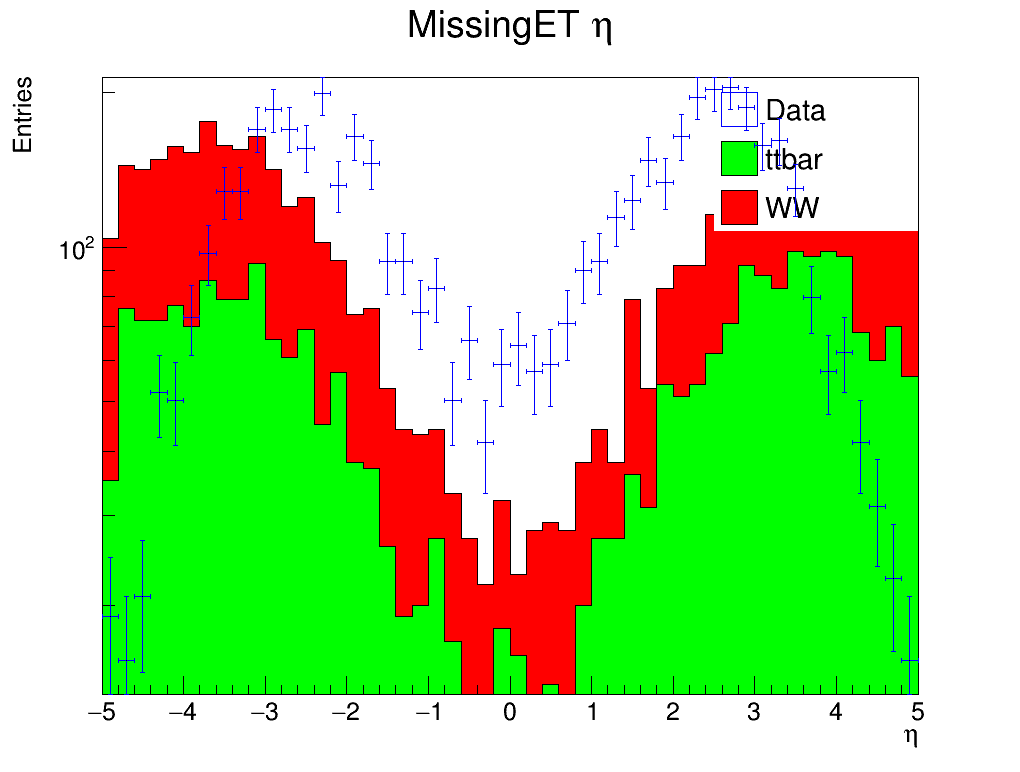
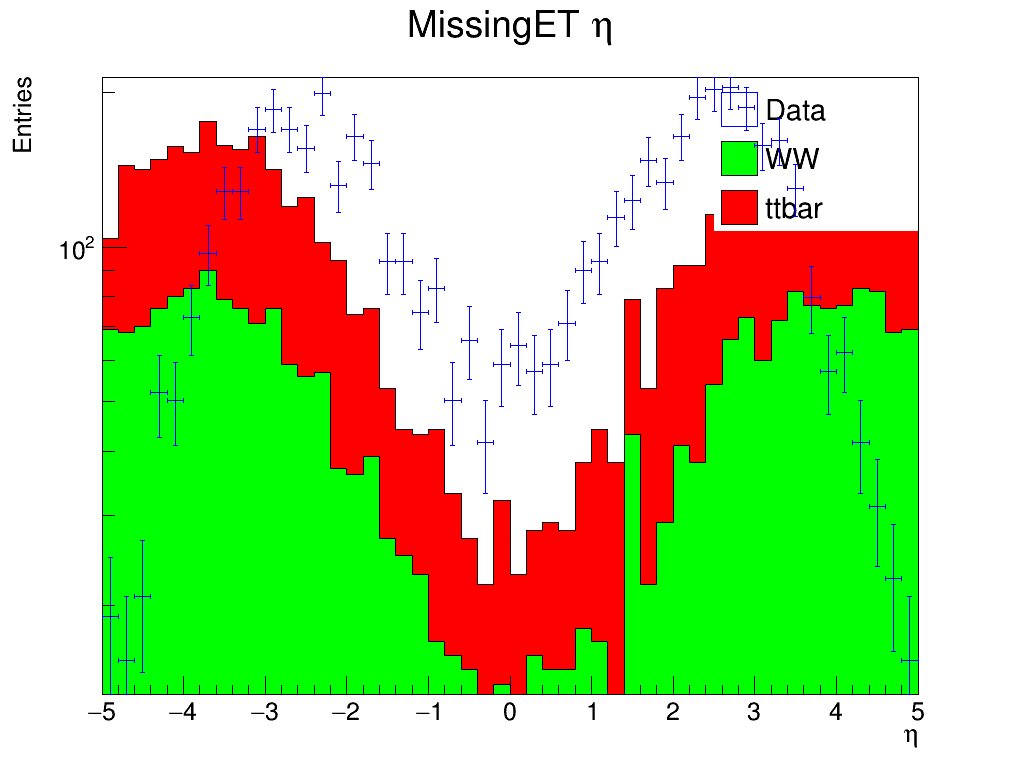
Some modifications

diff --git a/ExpPhysFinalProyect/SecondReport/Code/SecondReport_Plotting.C b/ExpPhysFinalProyect/SecondReport/Code/SecondReport_Plotting.C
@@ -1,8 +1,8 @@
 void SecondReport_Plotting()
 {
 	TFile *f1 = TFile::Open("Hists_output_simulated_data_two.root", "READ");
-  	TFile *f2 = TFile::Open("Hists_ttbar.root"                    , "READ");
-  	TFile *f3 = TFile::Open("Hists_WW.root"                       , "READ");
+  	TFile *f2 = TFile::Open("Hists_WW.root"                       , "READ");
+  	TFile *f3 = TFile::Open("Hists_ttbar.root"                    , "READ");
 
 	TCanvas *c = new TCanvas("c1", "c1", 1024, 800);
 
@@ -10,8 +10,8 @@ void SecondReport_Plotting()
 	// Hist Electron PT  
 
   	TH1F *histElectronPT_Data  = (TH1F*) f1 -> Get("histElectronPT");
-  	TH1F *histElectronPT_ttbar = (TH1F*) f2 -> Get("histElectronPT");
-  	TH1F *histElectronPT_WW    = (TH1F*) f3 -> Get("histElectronPT");
+  	TH1F *histElectronPT_WW = (TH1F*) f2 -> Get("histElectronPT");
+  	TH1F *histElectronPT_ttbar    = (TH1F*) f3 -> Get("histElectronPT");
 
   	THStack *hs_histElectronPT = new THStack("hs_histElectronPT", "");
 
@@ -20,21 +20,21 @@ void SecondReport_Plotting()
   	leg_histElectronPT -> SetFillColor(0);
 
   	leg_histElectronPT -> AddEntry(histElectronPT_Data , "Data" , "F");
-  	leg_histElectronPT -> AddEntry(histElectronPT_ttbar, "ttbar", "F");
-  	leg_histElectronPT -> AddEntry(histElectronPT_WW   , "WW"   , "F");
+  	leg_histElectronPT -> AddEntry(histElectronPT_WW, "WW", "F");
+  	leg_histElectronPT -> AddEntry(histElectronPT_ttbar   , "ttbar"   , "F");
 
   	c -> Draw();
   	c -> SetLogy();
   	
 	histElectronPT_Data  -> SetLineColor(kBlue);
-  	histElectronPT_Data  -> Scale((histElectronPT_ttbar -> Integral() + histElectronPT_WW -> Integral())/histElectronPT_Data -> Integral());
-  	histElectronPT_ttbar -> SetLineColor(kBlack);
-  	histElectronPT_ttbar -> SetFillColor(kGreen);
-  	histElectronPT_WW    -> SetLineColor(kBlack);
-  	histElectronPT_WW    -> SetFillColor(kRed);
+  	histElectronPT_Data  -> Scale((histElectronPT_WW -> Integral() + histElectronPT_ttbar -> Integral())/histElectronPT_Data -> Integral());
+  	histElectronPT_WW -> SetLineColor(kBlack);
+  	histElectronPT_WW -> SetFillColor(kGreen);
+  	histElectronPT_ttbar    -> SetLineColor(kBlack);
+  	histElectronPT_ttbar    -> SetFillColor(kRed);
 
-  	hs_histElectronPT -> Add(histElectronPT_ttbar);
   	hs_histElectronPT -> Add(histElectronPT_WW);
+  	hs_histElectronPT -> Add(histElectronPT_ttbar);
 
   	hs_histElectronPT -> Draw("Hist");
   	hs_histElectronPT -> SetTitle("Electron P_{T}");
@@ -52,8 +52,8 @@ void SecondReport_Plotting()
   	c -> Modified();
 
 	TH1F *histElectronEta_Data  = (TH1F*) f1 -> Get("histElectronEta");
-  	TH1F *histElectronEta_ttbar = (TH1F*) f2 -> Get("histElectronEta");
-  	TH1F *histElectronEta_WW    = (TH1F*) f3 -> Get("histElectronEta");
+  	TH1F *histElectronEta_WW = (TH1F*) f2 -> Get("histElectronEta");
+  	TH1F *histElectronEta_ttbar    = (TH1F*) f3 -> Get("histElectronEta");
 
   	THStack *hs_histElectronEta = new THStack("hs_histElectronEta", "");
 
@@ -62,21 +62,21 @@ void SecondReport_Plotting()
   	leg_histElectronEta -> SetFillColor(0);
 
   	leg_histElectronEta -> AddEntry(histElectronEta_Data , "Data" , "F");
-  	leg_histElectronEta -> AddEntry(histElectronEta_ttbar, "ttbar", "F");
-  	leg_histElectronEta -> AddEntry(histElectronEta_WW   , "WW"   , "F");
+  	leg_histElectronEta -> AddEntry(histElectronEta_WW, "WW", "F");
+  	leg_histElectronEta -> AddEntry(histElectronEta_ttbar   , "ttbar"   , "F");
 
   	c -> Draw();
   	c -> SetLogy();
   	
 	histElectronEta_Data  -> SetLineColor(kBlue);
-  	histElectronEta_Data  -> Scale((histElectronEta_ttbar -> Integral() + histElectronEta_WW -> Integral())/histElectronEta_Data -> Integral());
-  	histElectronEta_ttbar -> SetLineColor(kBlack);
-  	histElectronEta_ttbar -> SetFillColor(kGreen);
-  	histElectronEta_WW    -> SetLineColor(kBlack);
-  	histElectronEta_WW    -> SetFillColor(kRed);
+  	histElectronEta_Data  -> Scale((histElectronEta_WW -> Integral() + histElectronEta_ttbar -> Integral())/histElectronEta_Data -> Integral());
+  	histElectronEta_WW -> SetLineColor(kBlack);
+  	histElectronEta_WW -> SetFillColor(kGreen);
+  	histElectronEta_ttbar    -> SetLineColor(kBlack);
+  	histElectronEta_ttbar    -> SetFillColor(kRed);
 
-  	hs_histElectronEta -> Add(histElectronEta_ttbar);
   	hs_histElectronEta -> Add(histElectronEta_WW);
+  	hs_histElectronEta -> Add(histElectronEta_ttbar);
 
   	hs_histElectronEta -> Draw("Hist");
   	hs_histElectronEta -> SetTitle("Electron #eta");
@@ -94,8 +94,8 @@ void SecondReport_Plotting()
   	c -> Modified();
 
 	TH1F *histElectronPhi_Data  = (TH1F*) f1 -> Get("histElectronPhi");
-  	TH1F *histElectronPhi_ttbar = (TH1F*) f2 -> Get("histElectronPhi");
-  	TH1F *histElectronPhi_WW    = (TH1F*) f3 -> Get("histElectronPhi");
+  	TH1F *histElectronPhi_WW = (TH1F*) f2 -> Get("histElectronPhi");
+  	TH1F *histElectronPhi_ttbar    = (TH1F*) f3 -> Get("histElectronPhi");
 
   	THStack *hs_histElectronPhi = new THStack("hs_histElectronPhi", "");
 
@@ -104,21 +104,21 @@ void SecondReport_Plotting()
   	leg_histElectronPhi -> SetFillColor(0);
 
   	leg_histElectronPhi -> AddEntry(histElectronPhi_Data , "Data" , "F");
-  	leg_histElectronPhi -> AddEntry(histElectronPhi_ttbar, "ttbar", "F");
-  	leg_histElectronPhi -> AddEntry(histElectronPhi_WW   , "WW"   , "F");
+  	leg_histElectronPhi -> AddEntry(histElectronPhi_WW, "WW", "F");
+  	leg_histElectronPhi -> AddEntry(histElectronPhi_ttbar   , "ttbar"   , "F");
 
   	c -> Draw();
   	c -> SetLogy();
   	
 	histElectronPhi_Data  -> SetLineColor(kBlue);
-  	histElectronPhi_Data  -> Scale((histElectronPhi_ttbar -> Integral() + histElectronPhi_WW -> Integral())/histElectronPhi_Data -> Integral());
-  	histElectronPhi_ttbar -> SetLineColor(kBlack);
-  	histElectronPhi_ttbar -> SetFillColor(kGreen);
-  	histElectronPhi_WW    -> SetLineColor(kBlack);
-  	histElectronPhi_WW    -> SetFillColor(kRed);
+  	histElectronPhi_Data  -> Scale((histElectronPhi_WW -> Integral() + histElectronPhi_ttbar -> Integral())/histElectronPhi_Data -> Integral());
+  	histElectronPhi_WW -> SetLineColor(kBlack);
+  	histElectronPhi_WW -> SetFillColor(kGreen);
+  	histElectronPhi_ttbar    -> SetLineColor(kBlack);
+  	histElectronPhi_ttbar    -> SetFillColor(kRed);
 
-  	hs_histElectronPhi -> Add(histElectronPhi_ttbar);
   	hs_histElectronPhi -> Add(histElectronPhi_WW);
+  	hs_histElectronPhi -> Add(histElectronPhi_ttbar);
 
   	hs_histElectronPhi -> Draw("Hist");
   	hs_histElectronPhi -> SetTitle("Electron #phi");
@@ -134,8 +134,8 @@ void SecondReport_Plotting()
 	// Hist Muon PT  
 
   	TH1F *histMuonPT_Data  = (TH1F*) f1 -> Get("histMuonPT");
-  	TH1F *histMuonPT_ttbar = (TH1F*) f2 -> Get("histMuonPT");
-  	TH1F *histMuonPT_WW    = (TH1F*) f3 -> Get("histMuonPT");
+  	TH1F *histMuonPT_WW = (TH1F*) f2 -> Get("histMuonPT");
+  	TH1F *histMuonPT_ttbar    = (TH1F*) f3 -> Get("histMuonPT");
 
   	THStack *hs_histMuonPT = new THStack("hs_histMuonPT", "");
 
@@ -144,21 +144,21 @@ void SecondReport_Plotting()
   	leg_histMuonPT -> SetFillColor(0);
 
   	leg_histMuonPT -> AddEntry(histMuonPT_Data , "Data" , "F");
-  	leg_histMuonPT -> AddEntry(histMuonPT_ttbar, "ttbar", "F");
-  	leg_histMuonPT -> AddEntry(histMuonPT_WW   , "WW"   , "F");
+  	leg_histMuonPT -> AddEntry(histMuonPT_WW, "WW", "F");
+  	leg_histMuonPT -> AddEntry(histMuonPT_ttbar   , "ttbar"   , "F");
 
   	c -> Draw();
   	c -> SetLogy();
   	
 	histMuonPT_Data  -> SetLineColor(kBlue);
-  	histMuonPT_Data  -> Scale((histMuonPT_ttbar -> Integral() + histMuonPT_WW -> Integral())/histMuonPT_Data -> Integral());
-  	histMuonPT_ttbar -> SetLineColor(kBlack);
-  	histMuonPT_ttbar -> SetFillColor(kGreen);
-  	histMuonPT_WW    -> SetLineColor(kBlack);
-  	histMuonPT_WW    -> SetFillColor(kRed);
+  	histMuonPT_Data  -> Scale((histMuonPT_WW -> Integral() + histMuonPT_ttbar -> Integral())/histMuonPT_Data -> Integral());
+  	histMuonPT_WW -> SetLineColor(kBlack);
+  	histMuonPT_WW -> SetFillColor(kGreen);
+  	histMuonPT_ttbar    -> SetLineColor(kBlack);
+  	histMuonPT_ttbar    -> SetFillColor(kRed);
 
-  	hs_histMuonPT -> Add(histMuonPT_ttbar);
   	hs_histMuonPT -> Add(histMuonPT_WW);
+  	hs_histMuonPT -> Add(histMuonPT_ttbar);
 
   	hs_histMuonPT -> Draw("Hist");
   	hs_histMuonPT -> SetTitle("Muon P_{T}");
@@ -176,8 +176,8 @@ void SecondReport_Plotting()
   	c -> Modified();
 
 	TH1F *histMuonEta_Data  = (TH1F*) f1 -> Get("histMuonEta");
-  	TH1F *histMuonEta_ttbar = (TH1F*) f2 -> Get("histMuonEta");
-  	TH1F *histMuonEta_WW    = (TH1F*) f3 -> Get("histMuonEta");
+  	TH1F *histMuonEta_WW = (TH1F*) f2 -> Get("histMuonEta");
+  	TH1F *histMuonEta_ttbar    = (TH1F*) f3 -> Get("histMuonEta");
 
   	THStack *hs_histMuonEta = new THStack("hs_histMuonEta", "");
 
@@ -186,21 +186,21 @@ void SecondReport_Plotting()
   	leg_histMuonEta -> SetFillColor(0);
 
   	leg_histMuonEta -> AddEntry(histMuonEta_Data , "Data" , "F");
-  	leg_histMuonEta -> AddEntry(histMuonEta_ttbar, "ttbar", "F");
-  	leg_histMuonEta -> AddEntry(histMuonEta_WW   , "WW"   , "F");
+  	leg_histMuonEta -> AddEntry(histMuonEta_WW, "WW", "F");
+  	leg_histMuonEta -> AddEntry(histMuonEta_ttbar   , "ttbar"   , "F");
 
   	c -> Draw();
   	c -> SetLogy();
   	
 	histMuonEta_Data  -> SetLineColor(kBlue);
-  	histMuonEta_Data  -> Scale((histMuonEta_ttbar -> Integral() + histMuonEta_WW -> Integral())/histMuonEta_Data -> Integral());
-  	histMuonEta_ttbar -> SetLineColor(kBlack);
-  	histMuonEta_ttbar -> SetFillColor(kGreen);
-  	histMuonEta_WW    -> SetLineColor(kBlack);
-  	histMuonEta_WW    -> SetFillColor(kRed);
+  	histMuonEta_Data  -> Scale((histMuonEta_WW -> Integral() + histMuonEta_ttbar -> Integral())/histMuonEta_Data -> Integral());
+  	histMuonEta_WW -> SetLineColor(kBlack);
+  	histMuonEta_WW -> SetFillColor(kGreen);
+  	histMuonEta_ttbar    -> SetLineColor(kBlack);
+  	histMuonEta_ttbar    -> SetFillColor(kRed);
 
-  	hs_histMuonEta -> Add(histMuonEta_ttbar);
   	hs_histMuonEta -> Add(histMuonEta_WW);
+  	hs_histMuonEta -> Add(histMuonEta_ttbar);
 
   	hs_histMuonEta -> Draw("Hist");
   	hs_histMuonEta -> SetTitle("Muon #eta");
@@ -218,8 +218,8 @@ void SecondReport_Plotting()
   	c -> Modified();
 
 	TH1F *histMuonPhi_Data  = (TH1F*) f1 -> Get("histMuonPhi");
-  	TH1F *histMuonPhi_ttbar = (TH1F*) f2 -> Get("histMuonPhi");
-  	TH1F *histMuonPhi_WW    = (TH1F*) f3 -> Get("histMuonPhi");
+  	TH1F *histMuonPhi_WW = (TH1F*) f2 -> Get("histMuonPhi");
+  	TH1F *histMuonPhi_ttbar    = (TH1F*) f3 -> Get("histMuonPhi");
 
   	THStack *hs_histMuonPhi = new THStack("hs_histMuonPhi", "");
 
@@ -228,21 +228,21 @@ void SecondReport_Plotting()
   	leg_histMuonPhi -> SetFillColor(0);
 
   	leg_histMuonPhi -> AddEntry(histMuonPhi_Data , "Data" , "F");
-  	leg_histMuonPhi -> AddEntry(histMuonPhi_ttbar, "ttbar", "F");
-  	leg_histMuonPhi -> AddEntry(histMuonPhi_WW   , "WW"   , "F");
+  	leg_histMuonPhi -> AddEntry(histMuonPhi_WW, "WW", "F");
+  	leg_histMuonPhi -> AddEntry(histMuonPhi_ttbar   , "ttbar"   , "F");
 
   	c -> Draw();
   	c -> SetLogy();
   	
 	histMuonPhi_Data  -> SetLineColor(kBlue);
-  	histMuonPhi_Data  -> Scale((histMuonPhi_ttbar -> Integral() + histMuonPhi_WW -> Integral())/histMuonPhi_Data -> Integral());
-  	histMuonPhi_ttbar -> SetLineColor(kBlack);
-  	histMuonPhi_ttbar -> SetFillColor(kGreen);
-  	histMuonPhi_WW    -> SetLineColor(kBlack);
-  	histMuonPhi_WW    -> SetFillColor(kRed);
+  	histMuonPhi_Data  -> Scale((histMuonPhi_WW -> Integral() + histMuonPhi_ttbar -> Integral())/histMuonPhi_Data -> Integral());
+  	histMuonPhi_WW -> SetLineColor(kBlack);
+  	histMuonPhi_WW -> SetFillColor(kGreen);
+  	histMuonPhi_ttbar    -> SetLineColor(kBlack);
+  	histMuonPhi_ttbar    -> SetFillColor(kRed);
 
-  	hs_histMuonPhi -> Add(histMuonPhi_ttbar);
   	hs_histMuonPhi -> Add(histMuonPhi_WW);
+  	hs_histMuonPhi -> Add(histMuonPhi_ttbar);
 
   	hs_histMuonPhi -> Draw("Hist");
   	hs_histMuonPhi -> SetTitle("Muon #phi");
@@ -258,8 +258,8 @@ void SecondReport_Plotting()
 	// Hist MissingET MET 
 
   	TH1F *histMissingETMET_Data  = (TH1F*) f1 -> Get("histMissingETMET");
-  	TH1F *histMissingETMET_ttbar = (TH1F*) f2 -> Get("histMissingETMET");
-  	TH1F *histMissingETMET_WW    = (TH1F*) f3 -> Get("histMissingETMET");
+  	TH1F *histMissingETMET_WW = (TH1F*) f2 -> Get("histMissingETMET");
+  	TH1F *histMissingETMET_ttbar    = (TH1F*) f3 -> Get("histMissingETMET");
 
   	THStack *hs_histMissingETMET = new THStack("hs_histMissingETMET", "");
 
@@ -268,21 +268,21 @@ void SecondReport_Plotting()
   	leg_histMissingETMET -> SetFillColor(0);
 
   	leg_histMissingETMET -> AddEntry(histMissingETMET_Data , "Data" , "F");
-  	leg_histMissingETMET -> AddEntry(histMissingETMET_ttbar, "ttbar", "F");
-  	leg_histMissingETMET -> AddEntry(histMissingETMET_WW   , "WW"   , "F");
+  	leg_histMissingETMET -> AddEntry(histMissingETMET_WW, "WW", "F");
+  	leg_histMissingETMET -> AddEntry(histMissingETMET_ttbar   , "ttbar"   , "F");
 
   	c -> Draw();
   	c -> SetLogy();
   	
 	histMissingETMET_Data  -> SetLineColor(kBlue);
-  	histMissingETMET_Data  -> Scale((histMissingETMET_ttbar -> Integral() + histMissingETMET_WW -> Integral())/histMissingETMET_Data -> Integral());
-  	histMissingETMET_ttbar -> SetLineColor(kBlack);
-  	histMissingETMET_ttbar -> SetFillColor(kGreen);
-  	histMissingETMET_WW    -> SetLineColor(kBlack);
-  	histMissingETMET_WW    -> SetFillColor(kRed);
+  	histMissingETMET_Data  -> Scale((histMissingETMET_WW -> Integral() + histMissingETMET_ttbar -> Integral())/histMissingETMET_Data -> Integral());
+  	histMissingETMET_WW -> SetLineColor(kBlack);
+  	histMissingETMET_WW -> SetFillColor(kGreen);
+  	histMissingETMET_ttbar    -> SetLineColor(kBlack);
+  	histMissingETMET_ttbar    -> SetFillColor(kRed);
 
-  	hs_histMissingETMET -> Add(histMissingETMET_ttbar);
   	hs_histMissingETMET -> Add(histMissingETMET_WW);
+  	hs_histMissingETMET -> Add(histMissingETMET_ttbar);
 
   	hs_histMissingETMET -> Draw("Hist");
   	hs_histMissingETMET -> SetTitle("MissingET E^{miss}_{T}");
@@ -300,8 +300,8 @@ void SecondReport_Plotting()
   	c -> Modified();
 
 	TH1F *histMissingETEta_Data  = (TH1F*) f1 -> Get("histMissingETEta");
-  	TH1F *histMissingETEta_ttbar = (TH1F*) f2 -> Get("histMissingETEta");
-  	TH1F *histMissingETEta_WW    = (TH1F*) f3 -> Get("histMissingETEta");
+  	TH1F *histMissingETEta_WW = (TH1F*) f2 -> Get("histMissingETEta");
+  	TH1F *histMissingETEta_ttbar    = (TH1F*) f3 -> Get("histMissingETEta");
 
   	THStack *hs_histMissingETEta = new THStack("hs_histMissingETEta", "");
 
@@ -310,21 +310,21 @@ void SecondReport_Plotting()
   	leg_histMissingETEta -> SetFillColor(0);
 
   	leg_histMissingETEta -> AddEntry(histMissingETEta_Data , "Data" , "F");
-  	leg_histMissingETEta -> AddEntry(histMissingETEta_ttbar, "ttbar", "F");
-  	leg_histMissingETEta -> AddEntry(histMissingETEta_WW   , "WW"   , "F");
+  	leg_histMissingETEta -> AddEntry(histMissingETEta_WW, "WW", "F");
+  	leg_histMissingETEta -> AddEntry(histMissingETEta_ttbar   , "ttbar"   , "F");
 
   	c -> Draw();
   	c -> SetLogy();
   	
 	histMissingETEta_Data  -> SetLineColor(kBlue);
-  	histMissingETEta_Data  -> Scale((histMissingETEta_ttbar -> Integral() + histMissingETEta_WW -> Integral())/histMissingETEta_Data -> Integral());
-  	histMissingETEta_ttbar -> SetLineColor(kBlack);
-  	histMissingETEta_ttbar -> SetFillColor(kGreen);
-  	histMissingETEta_WW    -> SetLineColor(kBlack);
-  	histMissingETEta_WW    -> SetFillColor(kRed);
+  	histMissingETEta_Data  -> Scale((histMissingETEta_WW -> Integral() + histMissingETEta_ttbar -> Integral())/histMissingETEta_Data -> Integral());
+  	histMissingETEta_WW -> SetLineColor(kBlack);
+  	histMissingETEta_WW -> SetFillColor(kGreen);
+  	histMissingETEta_ttbar    -> SetLineColor(kBlack);
+  	histMissingETEta_ttbar    -> SetFillColor(kRed);
 
-  	hs_histMissingETEta -> Add(histMissingETEta_ttbar);
   	hs_histMissingETEta -> Add(histMissingETEta_WW);
+  	hs_histMissingETEta -> Add(histMissingETEta_ttbar);
 
   	hs_histMissingETEta -> Draw("Hist");
   	hs_histMissingETEta -> SetTitle("MissingET #eta");
@@ -342,8 +342,8 @@ void SecondReport_Plotting()
   	c -> Modified();
 
 	TH1F *histMissingETPhi_Data  = (TH1F*) f1 -> Get("histMissingETPhi");
-  	TH1F *histMissingETPhi_ttbar = (TH1F*) f2 -> Get("histMissingETPhi");
-  	TH1F *histMissingETPhi_WW    = (TH1F*) f3 -> Get("histMissingETPhi");
+  	TH1F *histMissingETPhi_WW = (TH1F*) f2 -> Get("histMissingETPhi");
+  	TH1F *histMissingETPhi_ttbar    = (TH1F*) f3 -> Get("histMissingETPhi");
 
   	THStack *hs_histMissingETPhi = new THStack("hs_histMissingETPhi", "");
 
@@ -352,21 +352,21 @@ void SecondReport_Plotting()
   	leg_histMissingETPhi -> SetFillColor(0);
 
   	leg_histMissingETPhi -> AddEntry(histMissingETPhi_Data , "Data" , "F");
-  	leg_histMissingETPhi -> AddEntry(histMissingETPhi_ttbar, "ttbar", "F");
-  	leg_histMissingETPhi -> AddEntry(histMissingETPhi_WW   , "WW"   , "F");
+  	leg_histMissingETPhi -> AddEntry(histMissingETPhi_WW, "WW", "F");
+  	leg_histMissingETPhi -> AddEntry(histMissingETPhi_ttbar   , "ttbar"   , "F");
 
   	c -> Draw();
   	c -> SetLogy();
   	
 	histMissingETPhi_Data  -> SetLineColor(kBlue);
-  	histMissingETPhi_Data  -> Scale((histMissingETPhi_ttbar -> Integral() + histMissingETPhi_WW -> Integral())/histMissingETPhi_Data -> Integral());
-  	histMissingETPhi_ttbar -> SetLineColor(kBlack);
-  	histMissingETPhi_ttbar -> SetFillColor(kGreen);
-  	histMissingETPhi_WW    -> SetLineColor(kBlack);
-  	histMissingETPhi_WW    -> SetFillColor(kRed);
+  	histMissingETPhi_Data  -> Scale((histMissingETPhi_WW -> Integral() + histMissingETPhi_ttbar -> Integral())/histMissingETPhi_Data -> Integral());
+  	histMissingETPhi_WW -> SetLineColor(kBlack);
+  	histMissingETPhi_WW -> SetFillColor(kGreen);
+  	histMissingETPhi_ttbar    -> SetLineColor(kBlack);
+  	histMissingETPhi_ttbar    -> SetFillColor(kRed);
 
-  	hs_histMissingETPhi -> Add(histMissingETPhi_ttbar);
   	hs_histMissingETPhi -> Add(histMissingETPhi_WW);
+  	hs_histMissingETPhi -> Add(histMissingETPhi_ttbar);
 
   	hs_histMissingETPhi -> Draw("Hist");
   	hs_histMissingETPhi -> SetTitle("MissingET #phi");
@@ -378,6 +378,5 @@ void SecondReport_Plotting()
 
 	c -> SaveAs("histMissingETPhi.png");
 
-
-
 }
+
